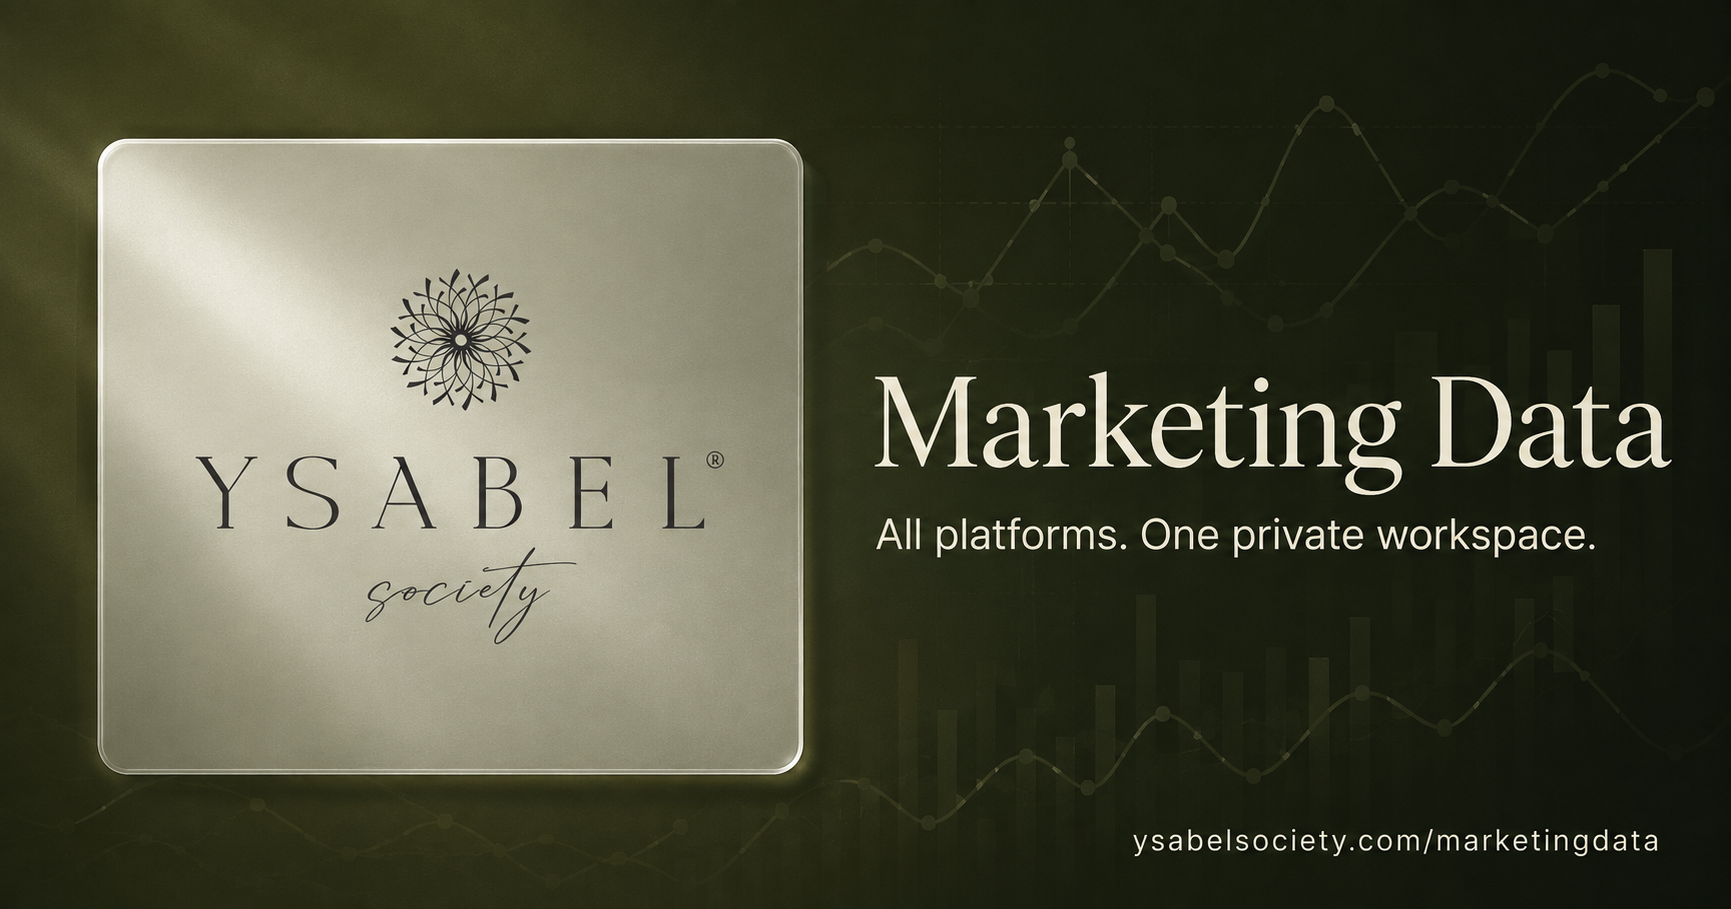
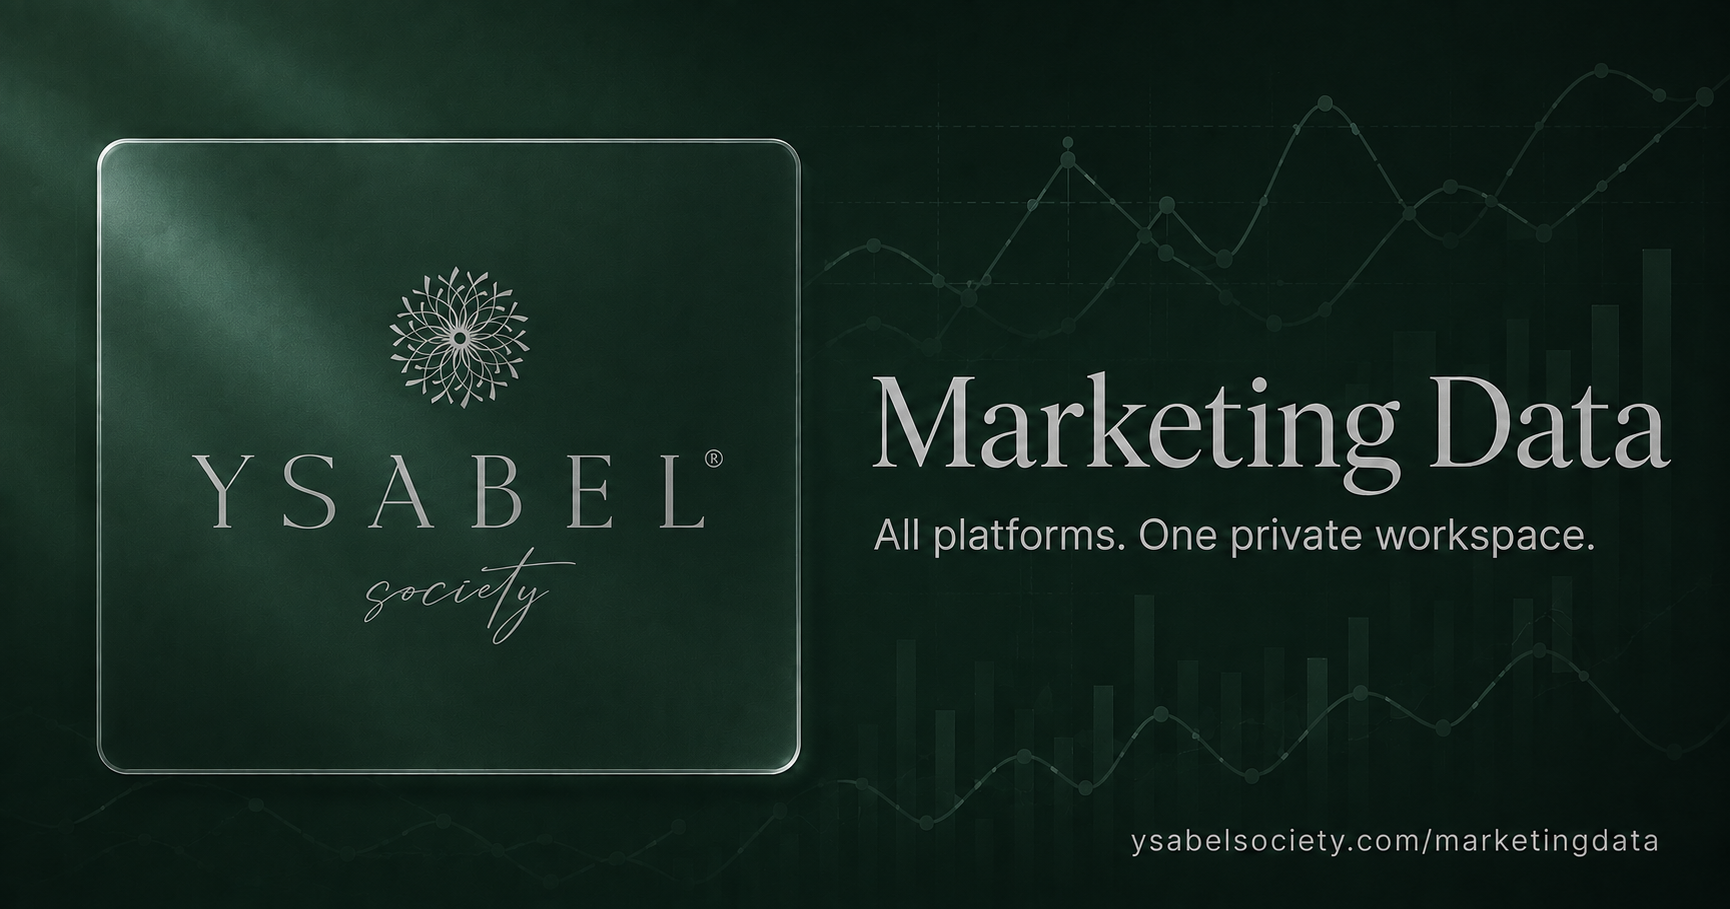
Match social preview to evergreen gradient and silver brand palette

diff --git a/app/layout.tsx b/app/layout.tsx
@@ -26,8 +26,8 @@ export const metadata: Metadata = {
     description: 'All platforms. One private workspace.',
     images: [
       {
-        url: 'https://ysabelsociety.com/marketingdata/og.png',
-        width: 1731,
+        url: 'https://ysabelsociety.com/marketingdata/og.png?v=65',
+        width: 1730,
         height: 909,
         type: 'image/png',
         alt: 'Ysabel Society — Marketing Data. All platforms. One private workspace.',
@@ -40,7 +40,7 @@ export const metadata: Metadata = {
     description: 'All platforms. One private workspace.',
     images: [
       {
-        url: 'https://ysabelsociety.com/marketingdata/og.png',
+        url: 'https://ysabelsociety.com/marketingdata/og.png?v=65',
         alt: 'Ysabel Society — Marketing Data. All platforms. One private workspace.',
       },
     ],
